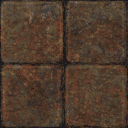
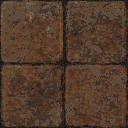
Improve player movement. Larger arena. Palletize textures properly. Remove unused files

diff --git a/src/game/base/entity/Player.cpp b/src/game/base/entity/Player.cpp
@@ -2,6 +2,7 @@
 #include "projectiles/Spoon.h"
 #include "../../../auxiliary/Config.h"
 #include "../../../auxiliary/Network.h"
+#include "../../../auxiliary/Time.h"
 #include <iostream>
 #include <cmath>
 
@@ -21,7 +22,8 @@ Player::Player(InputHandler *input) : Entity()
 
 	cmodel = CollisionModel(CollisionModel::ModelType::Box, glm::vec3(24, 64, 24));
 	solid = true;
-	maxSpeed = 180;
+
+	lastJumpTime = 0;
 }
 
 Player::~Player()
@@ -33,6 +35,7 @@ void Player::Update(float deltaTime)
 {
 	ProjectView();
 	HandlePlayerInput(deltaTime);
+	HandlePMove(deltaTime);
 }
 
 void Player::Touch(Entity *other)
@@ -65,55 +68,27 @@ void Player::ProjectView()
 
 void Player::HandlePlayerInput(float deltaTime)
 {
-	const float MOVEMENT_SPEED = 1000.0;
-
 	cam_rot.x -= input->GetMouseX() / 300.0;
 	cam_rot.y -= input->GetMouseY() / 300.0;
 	cam_rot.y = std::fmax(std::fmin(cam_rot.y, 1.4), -1.4);
 
-	glm::vec3 oldVel = velocity;
+	idir = glm::vec3(0, 0, 0);
 
-	/* Calculate movement vector */
 	glm::vec3 moveDir = glm::vec3(sin(cam_rot.x), 0, cos(cam_rot.x));
 
 	if(input->KeyDown(Config::GetKey("moveForward")))
-	{
-		if(onFloor && moveType == MovementType::Walk)
-			velocity += moveDir * deltaTime * MOVEMENT_SPEED;
-		else if(moveType == MovementType::Fly)
-			position += dir * deltaTime * (MOVEMENT_SPEED/5);
-	}
-	if(input->KeyDown(Config::GetKey("moveBackward")))
-	{
-		if(onFloor && moveType == MovementType::Walk)
-			velocity -= moveDir * deltaTime * MOVEMENT_SPEED;
-		else if(moveType == MovementType::Fly)
-			position -= dir * deltaTime * (MOVEMENT_SPEED/5);
-	}
+		idir += moveDir;
+	else if(input->KeyDown(Config::GetKey("moveBackward")))
+		idir -= moveDir;
+
 	if(input->KeyDown(Config::GetKey("moveLeft")))
-	{
-		if(onFloor && moveType == MovementType::Walk)
-			velocity -= right * deltaTime * MOVEMENT_SPEED;
-		else if(moveType == MovementType::Fly)
-			position -= right * deltaTime * (MOVEMENT_SPEED/5);
-	}
-	if(input->KeyDown(Config::GetKey("moveRight")))
-	{
-		if(onFloor && moveType == MovementType::Walk)
-			velocity += right * deltaTime * MOVEMENT_SPEED;
-		else if(moveType == MovementType::Fly)
-			position += right * deltaTime * (MOVEMENT_SPEED/5);
-	}
+		idir -= right;
+	else if(input->KeyDown(Config::GetKey("moveRight")))
+		idir += right;
+
 	if(input->KeyDown(Config::GetKey("jump")))
-	{
-		if(onFloor && moveType == MovementType::Walk)
-		{
-			velocity.y = 40;
-			onFloor = false;
-		}
-		else if(moveType == MovementType::Fly)
-			position.y += 150 * deltaTime;
-	}
+		idir.y = 1;
+
 	if(input->MousePressed(1)) // FIXME this is ugly and should be written properly
 	{
 		Spoon *spoon = new Spoon(this);
@@ -132,11 +107,6 @@ void Player::HandlePlayerInput(float deltaTime)
 		velocity = glm::vec3(0, 0, 0);
 	}
 
-	if(oldVel != velocity)
-	{
-		if(glm::clamp(velocity, -maxSpeed, maxSpeed) != velocity)
-			velocity = oldVel;
-	}
 	if(input->KeyDown(SDLK_e))
 		if(clientmodule == NULL)
 			InitialiseClient("127.0.0.1",44,45);
@@ -146,4 +116,86 @@ void Player::HandlePlayerInput(float deltaTime)
 
 	if(input->KeyPressed(SDLK_b))
 		arena->SetDrawBBoxes();
+}
+
+void Player::HandlePMove(float deltaTime)
+{
+	const float ACCEL_SPEED = 1800;
+	const float AIR_C = 200;
+	const float MAX_SPEED = 250;
+	const float MAX_AIR_SPEED = 300;
+	const float JUMP_HEIGHT = 80;
+	const float gravity = 180;
+	const float airFriction = 50;
+	const float friction = 1000;
+	const float termVel = 210;
+
+	onFloor = cmodel.OnFloor(position, arena->GetCModel());
+
+	/* Calculate intended movement direction */
+	glm::vec3 idirxzn = glm::vec3(0, 0, 0);
+	if(glm::length(glm::vec3(idir.x, 0, idir.z)) > 0)
+		idirxzn = glm::vec3(idir.x, 0, idir.z);
+
+	if(moveType == MovementType::Walk)
+	{
+		glm::vec3 xzVel = glm::vec3(velocity.x, 0, velocity.z);
+		glm::vec3 xzVelN = glm::vec3(0, 0, 0);
+		if(glm::length(xzVel) != 0)
+			xzVelN = glm::normalize(xzVel);
+
+		/* If airbound, apply airFriction and gravity */
+		if(!onFloor)
+		{
+			/* Air friction, gravity */
+			velocity -= (deltaTime * xzVelN * airFriction);
+			velocity.y -= deltaTime * gravity;
+
+			if(velocity.y < -termVel)
+				velocity.y = -termVel;
+
+			/* Air Control */
+			velocity += (idirxzn * AIR_C * deltaTime);
+
+			// Clamp speed
+			if(glm::length(velocity) > MAX_AIR_SPEED)
+				velocity = glm::normalize(velocity) * MAX_AIR_SPEED; // todo don't hardclamp, just add more friction
+
+			/* Terrible hack to 'pop' the player off floor */
+			if(cmodel.OnFloor(position, arena->GetCModel()))
+			{
+				while(cmodel.OnFloor(position, arena->GetCModel()))
+					position.y += 1;
+
+				position.y -= 1;
+				velocity.y = 0;
+			}
+		}
+		else // On Floor
+		{
+			if(velocity.y < 0) // Stop ent going through floor
+				velocity.y = 0;
+
+			if(glm::length(xzVelN) > 0 && glm::dot(idirxzn, xzVelN) < 0)
+				velocity -= deltaTime * xzVelN * (friction*2);
+
+			velocity -= (deltaTime * xzVelN * friction);
+			velocity += (idirxzn * ACCEL_SPEED * deltaTime);
+
+			// Clamp speed
+			if(glm::length(velocity) > MAX_SPEED)
+				velocity = glm::normalize(velocity) * MAX_SPEED;
+
+			// Apply vertical velocity (jumping)
+			if(idir.y > 0 && Time::GetCurrentTimeMillis() > lastJumpTime + 300)
+			{
+				lastJumpTime = Time::GetCurrentTimeMillis();
+				velocity.y = idir.y * JUMP_HEIGHT;
+				onFloor = false;
+			}
+		}
+	}
+
+	/* Apply velocity to position */
+	position += velocity * deltaTime;
 }

diff --git a/src/game/base/Arena.cpp b/src/game/base/Arena.cpp
@@ -11,7 +11,7 @@ Arena::Arena(const std::string &name)
 	spawn_timer = 0.0f;
 	drawBBoxes = false;
 
-	arena_cmodel = CollisionModel(CollisionModel::ModelType::Box, glm::vec3(448, 8, 448));
+	arena_cmodel = CollisionModel(CollisionModel::ModelType::Box, glm::vec3(1200, 8, 1200));
 }
 
 Arena::~Arena()
@@ -137,7 +137,9 @@ void Arena::RunPhysics(float deltaTime)
 		/* We don't apply gravity or other forces to flying entities, only walkers */
 		Entity *ent = kv.second;
 		if(!ent)
-			return;
+			continue;
+		if(ent->classname == "player")
+			continue;
 
 		if(ent->moveType == Entity::MovementType::Walk)
 		{

diff --git a/src/game/base/entity/Player.h b/src/game/base/entity/Player.h
@@ -14,6 +14,8 @@ public:
 
 	void Update(float deltaTime);
 
+	void HandlePMove(float deltaTime);
+
 	void Draw() {}
 
 	void SendEntity() {}
@@ -38,5 +40,9 @@ private:
 	glm::vec3 up;
 	glm::vec3 right;
 	glm::vec3 dir;
+
+
+	glm::vec3 idir; // Intended direction vector from player input
+	long lastJumpTime; 
 
 };

diff --git a/src/game/base/Arena.h b/src/game/base/Arena.h
@@ -26,6 +26,8 @@ public:
 
 	inline void SetDrawBBoxes() { drawBBoxes = !drawBBoxes; }
 
+	inline CollisionModel &GetCModel() { return arena_cmodel; }
+
 private:
 
 	void RunPhysics(float deltaTime);
